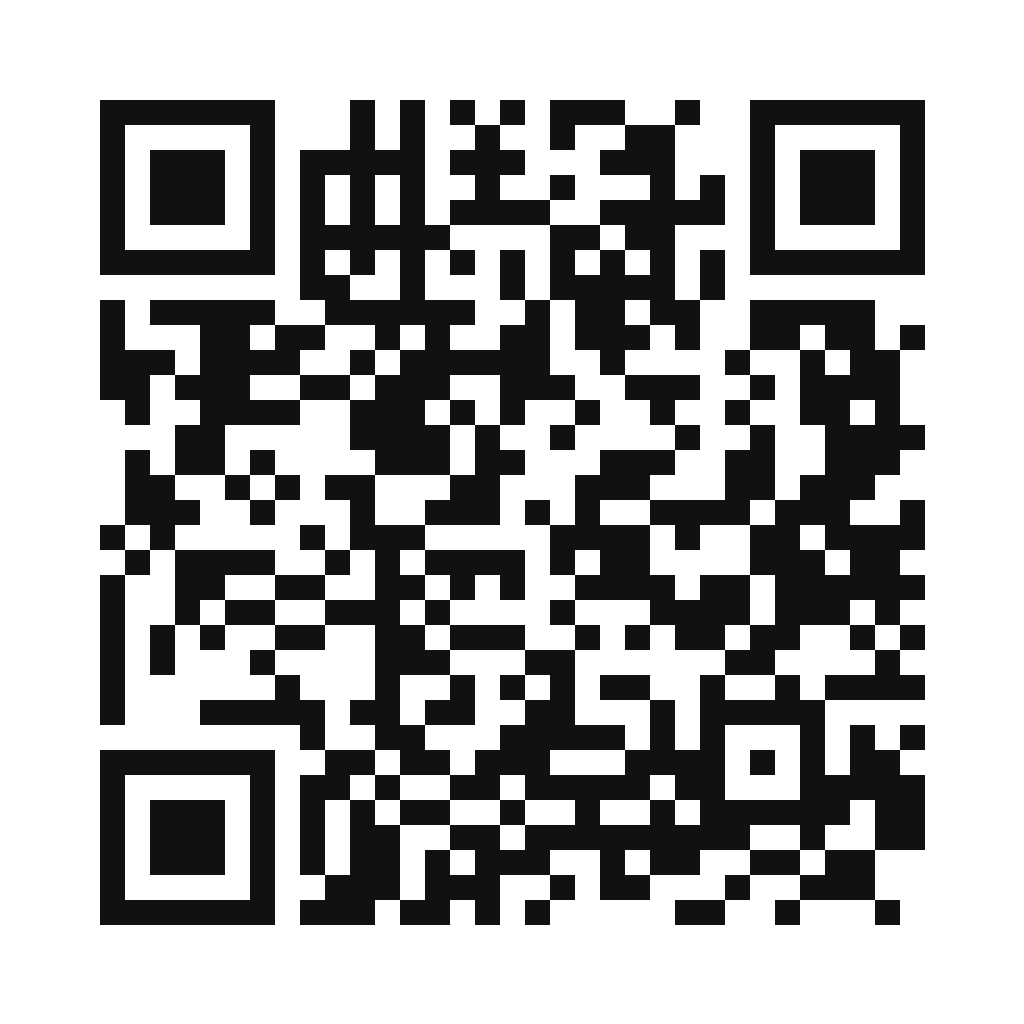
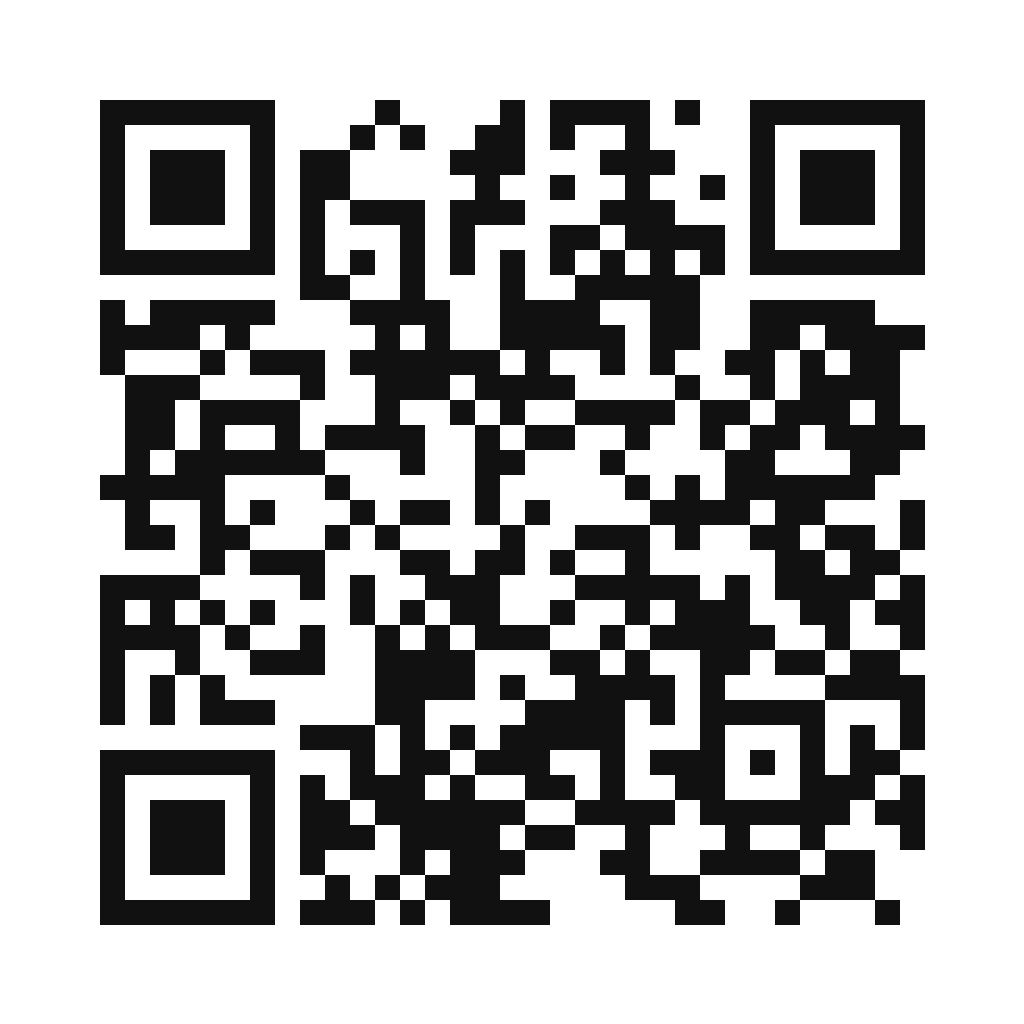
Actualizar canonical, OG y códigos QR para Netlify (drogueria-vida-y-salud.netlify.app)

diff --git a/index.html b/index.html
@@ -10,17 +10,17 @@
 <meta name="page-kind" content="place">
 <meta name="theme-color" content="#f3f1ec">
 <link rel="icon" href="favicon.png" type="image/png">
-<link rel="canonical" href="https://lmiguelbv.github.io/drogueria-vida-y-salud/">
+<link rel="canonical" href="https://drogueria-vida-y-salud.netlify.app/">
 <meta property="og:type" content="website">
 <meta property="og:locale" content="es_CO">
-<meta property="og:url" content="https://lmiguelbv.github.io/drogueria-vida-y-salud/">
+<meta property="og:url" content="https://drogueria-vida-y-salud.netlify.app/">
 <meta property="og:title" content="Droguería Vida y Salud SAS — Barrio Restrepo, Bogotá D.C.">
 <meta property="og:description" content="Dispensación responsable de medicamentos, toma de presión arterial, orientación farmacéutica e inyectología bajo protocolo de bioseguridad en Bogotá.">
-<meta property="og:image" content="https://lmiguelbv.github.io/drogueria-vida-y-salud/share.jpg">
+<meta property="og:image" content="https://drogueria-vida-y-salud.netlify.app/share.jpg">
 <meta name="twitter:card" content="summary_large_image">
 <meta name="twitter:title" content="Droguería Vida y Salud SAS — Barrio Restrepo, Bogotá D.C.">
 <meta name="twitter:description" content="Dispensación responsable de medicamentos, toma de presión arterial, orientación farmacéutica e inyectología bajo protocolo de bioseguridad en Bogotá.">
-<meta name="twitter:image" content="https://lmiguelbv.github.io/drogueria-vida-y-salud/share.jpg">
+<meta name="twitter:image" content="https://drogueria-vida-y-salud.netlify.app/share.jpg">
 <link rel="preconnect" href="https://fonts.googleapis.com">
 <link rel="preconnect" href="https://fonts.gstatic.com" crossorigin>
 <link href="https://fonts.googleapis.com/css2?family=Plus+Jakarta+Sans:wght@400;500;600;700&display=swap" rel="stylesheet">

diff --git a/README.md b/README.md
@@ -2,7 +2,8 @@
 
 Sitio web estático (`HTML + CSS + JS`, sin proceso de compilación ni dependencias externas en ejecución) para **Droguería Vida y Salud SAS**, farmacia de barrio ubicada en **Calle 17 Sur, barrio Restrepo, Bogotá D.C., Colombia**.
 
-- **Sitio en vivo (GitHub Pages):** https://lmiguelbv.github.io/drogueria-vida-y-salud/
+- **Sitio en vivo (Netlify):** https://drogueria-vida-y-salud.netlify.app/
+- **Espejo GitHub Pages:** https://drogueria-vida-y-salud.netlify.app/
 - **Repositorio público:** https://github.com/lmiguelbv/drogueria-vida-y-salud
 
 ## Estructura del proyecto
@@ -12,7 +13,7 @@ Sitio web estático (`HTML + CSS + JS`, sin proceso de compilación ni dependenc
 - `creditos.html`: atribuciones y licencias de las fotografías temporales usadas en el sitio.
 - `data/indicadores.json`: fuente JSON con los **7 indicadores de calidad del servicio** (valor actual, meta y nota).
 - `js/indicadores.js`: módulo JavaScript que carga y renderiza `data/indicadores.json` mediante nodos DOM seguros (`textContent`) y activa el indicador de sección actual en la barra de navegación (`aria-current="location"`).
-- `qr.svg` y `qr.png`: código QR escaneable (corrección de errores `M`, margen `4`, negro `#111111` sobre blanco `#ffffff`) que apunta directamente a https://lmiguelbv.github.io/drogueria-vida-y-salud/.
+- `qr.svg` y `qr.png`: código QR escaneable (corrección de errores `M`, margen `4`, negro `#111111` sobre blanco `#ffffff`) que apunta directamente a https://drogueria-vida-y-salud.netlify.app/.
 - `share.jpg`: imagen Open Graph (`1200×630`) generada desde la pantalla inicial.
 - `favicon.png`, `assets/logo.png`, `assets/logo-mark.png`, `assets/logo.jpeg`: logotipo e isotipo adaptados desde el emblema original del establecimiento.
 - `assets/img/`: versiones WebP optimizadas con `srcset` responsivo (`500w`, `960w`, `1280w`, `1920w` y recorte móvil `780×975`).
@@ -51,7 +52,7 @@ Si la URL final cambia, regenera ambos archivos con corrección de errores `M` y
 
 ```js
 import QRCode from 'qrcode';
-const url = 'https://lmiguelbv.github.io/drogueria-vida-y-salud/';
+const url = 'https://drogueria-vida-y-salud.netlify.app/';
 await QRCode.toFile('qr.png', url, { width: 1024, margin: 4, errorCorrectionLevel: 'M', color: { dark: '#111111', light: '#ffffff' } });
 ```
 
